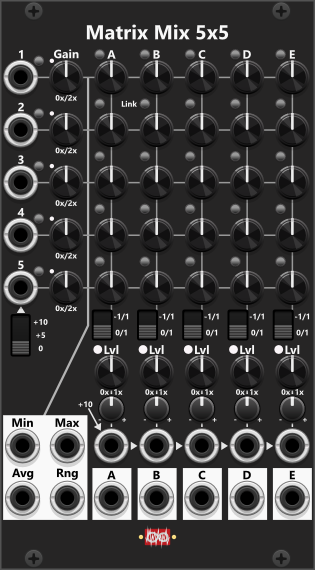
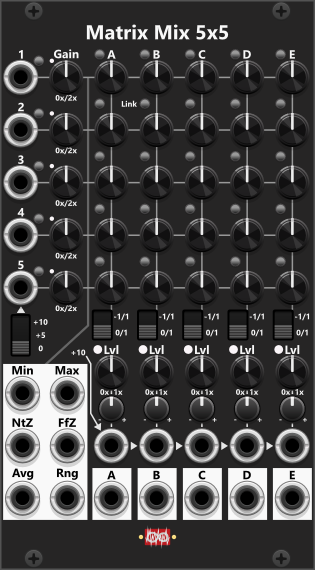
Minor doc changes and updated MatrixMix5x5 panel for doc

diff --git a/doc/Flux4.md b/doc/Flux4.md
@@ -60,7 +60,7 @@ However, the A–D inputs support **polyphonic** signals, and all outputs can ge
 - **As a 4-section manual mixer**: As before, set all 4 Range knobs to 10, but this time set all Pos knobs to 0 and Sweep to 10. As you begin to increase the individual Pos knobs, you will gradually mix in more and more of each signal. You can then use either the **Avg** or **Sum** output, depending on whether you want an averaging or unity mix of the 4 signals.
 - **As a 2x2 mixer**: Use the same settings as above, but in stead use the A+B and C+D outputs, where the **A+B** output have the mix of the A and B signals, and the **C+D** output have the mix of the C and D signals.
 - **As a stereo cross-fader**: Let's say we connect signal 1-left to A, signal 2-left to B, signal 1-right to C, and signal 2-right to D. Set all 4 Range knobs to 10, then set A-Pos and C-Pos to 0, and B-Pos and D-Pos to 10. As you change Sweep between 0 and 10, you will cross-fade between the two stereo signals, with output **A+B** providing the cross-faded left signal and output **C+D** providing the cross-faded right signal.
-- **Uniformly cross-fade between 4 signals**: Out of the box (initialized), Flux 4 will cross-fade between signals A–D as you sweep from 0 to 10. However, if you look at the first illustration above, you'll notice that A-Pos (red triangle) is positioned at 2, while D-Pos (magenta triangle) is positioned at 8. Hence, to achieve a complete cross-fade between all 4 signals, we would have to restrict Sweep to the range 2–8. For this application, being able to use the full Sweep range (0–10) would be easier to handle. So, first we need to change the Pos settings (A–D) to 0, 3.333, 6.667, and 10, respectively. Since we have increased the intervals between the positions, we also need to adjust Range, so set all 4 Range knobs to 3.333. For this application simply use the Sum output in the lower/right corner. Now, with Sweep at 0, signal A will be at full amplification. At 3.333, signal B will be at full amplification; at 6.667, signal C will be at full amplification; and finally, at 10, signal D will be at full amplification.
+- **Uniformly cross-fade between 4 signals**: Out of the box (initialized), Flux 4 will cross-fade between signals A–D as you sweep from 0 to 10. However, if you look at the first illustration above, you'll notice that A-Pos (red triangle) is positioned at 2, while D-Pos (magenta triangle) is positioned at 8. Hence, to achieve a complete cross-fade between all 4 signals, we would have to restrict Sweep to the range 2–8. For this application, being able to use the full Sweep range (0–10) would be easier to handle. So, first we need to change the Pos settings (A–D) to 0, 3.333, 6.667, and 10, respectively. Since we have increased the intervals between the positions, we also need to adjust Range, so set all 4 Range knobs to 3.333. For this application simply use the **Sum** output in the lower/right corner. Now, with Sweep at 0, signal A will be at full amplification. At 3.333, signal B will be at full amplification; at 6.667, signal C will be at full amplification; and finally, at 10, signal D will be at full amplification.
 
 These Pos and Range settings are also available from the module context menu under **Setup up Pos/Range for** — both mixer examples use the single **Mixer** item, and Sweep is left unchanged.
 

diff --git a/doc/Delay3.md b/doc/Delay3.md
@@ -10,7 +10,7 @@ However, while the Infinite-Noise modules have this built-in delay feature for t
 
 In these cases, you might need a module like Delay 3. It's a very simple module with 3 identical sections, each featuring an input port, a knob to dial in the delay (1–16 cycles), and an output port. The input in section B is normalized to the output of section A, and the input in section C is normalized to the output of section B. This normalization includes an internal 1-cycle delay, so it behaves exactly the same way whether you use the internal normalization or connect the sections using a cable (e.g., from the output of section A to the input of section B).
 
-As each section can delay a signal by up to 16 cycles, you can achieve a total delay of 48 (3x16) cycles by connecting a signal to the input of section A, turning all 3 delay knobs up to 16, and connecting a single output cable to section C. All inputs and outputs support polyphonic signals, with all channels of a signal delayed by the same number of cycles as dialed in by the delay knob.
+As each section can delay a signal by up to 16 cycles, you can achieve a **total delay of 48 (3x16) cycles** by connecting a signal to the input of section A, turning all 3 delay knobs up to 16, and connecting a single output cable to section C. All inputs and outputs support **polyphonic signals**, with all channels of a signal delayed by the same number of cycles as dialed in by the delay knob.
 
 ![Screenshot of Delay 3](module/Delay3.png)
 
